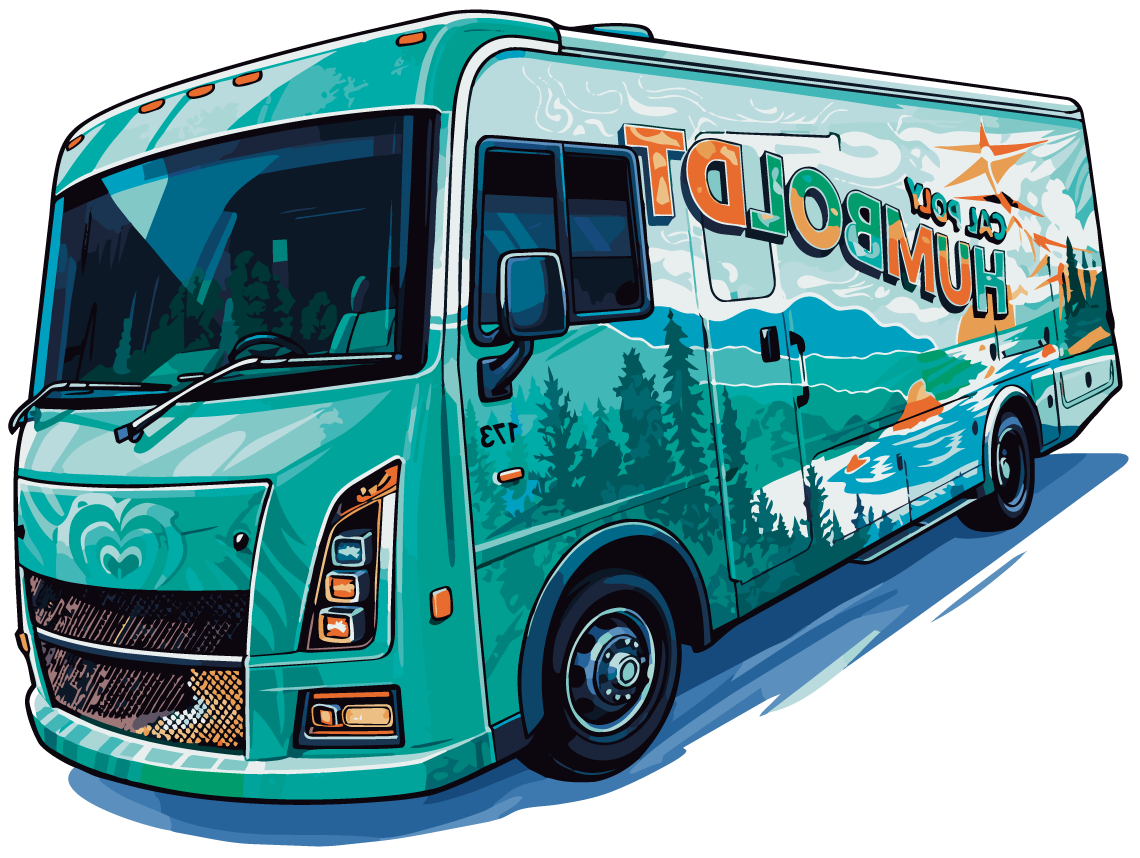
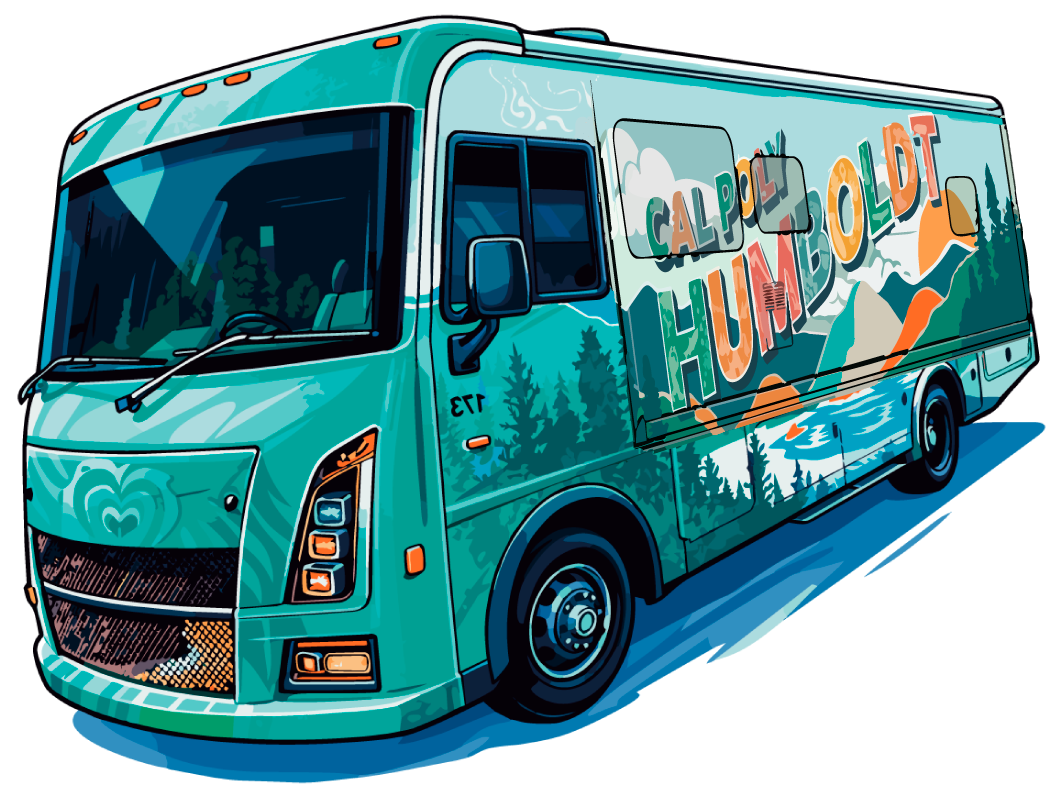
rv-mobile-alumni-center.html - fix button colors and left side of the RV

diff --git a/rv-mobile-alumni-center.html b/rv-mobile-alumni-center.html
@@ -84,6 +84,15 @@
       font-style: italic;
       margin: 0 0 30px;
     }
+    .road-hero .btn-primary {
+      background: #22584d;
+      border-color: #3a2a00;
+      color: #fff;
+    }
+    .road-hero .btn-primary:hover {
+      background: #3a2a00;
+      border-color: #34826c;
+    }
     .road-hero-map {
       display: block;
       width: min(100%, 760px);
@@ -397,7 +406,7 @@
           and supporters a place to gather, cheer each other on, and celebrate
           after crossing the finish line.
         </p>
-        <hr><p><strong>Photos:</strong> <a href="https://www.facebook.com/media/set/?set=a.1664610631177182&type=3">Trinidad to Clam Beach, CA.</p>
+        <hr><p><strong>Photos:</strong> <a href="https://www.facebook.com/media/set/?set=a.1664610631177182&type=3">Trinidad to Clam Beach, CA</a>.</p>
       </div>
     </article>
 
@@ -485,8 +494,9 @@
       Center carries a little piece of Humboldt along for the ride.
     </p>
     <p>
-      See where it&apos;s headed next at
-      <a href="https://humboldt.edu/forever">humboldt.edu/forever</a>.
+      See where it&apos;s headed next</p>
+    <p>
+      <a class="btn btn-primary" href="https://humboldt.edu/forever#events">Forever Humboldt Events</a>
     </p>
   </footer>
 